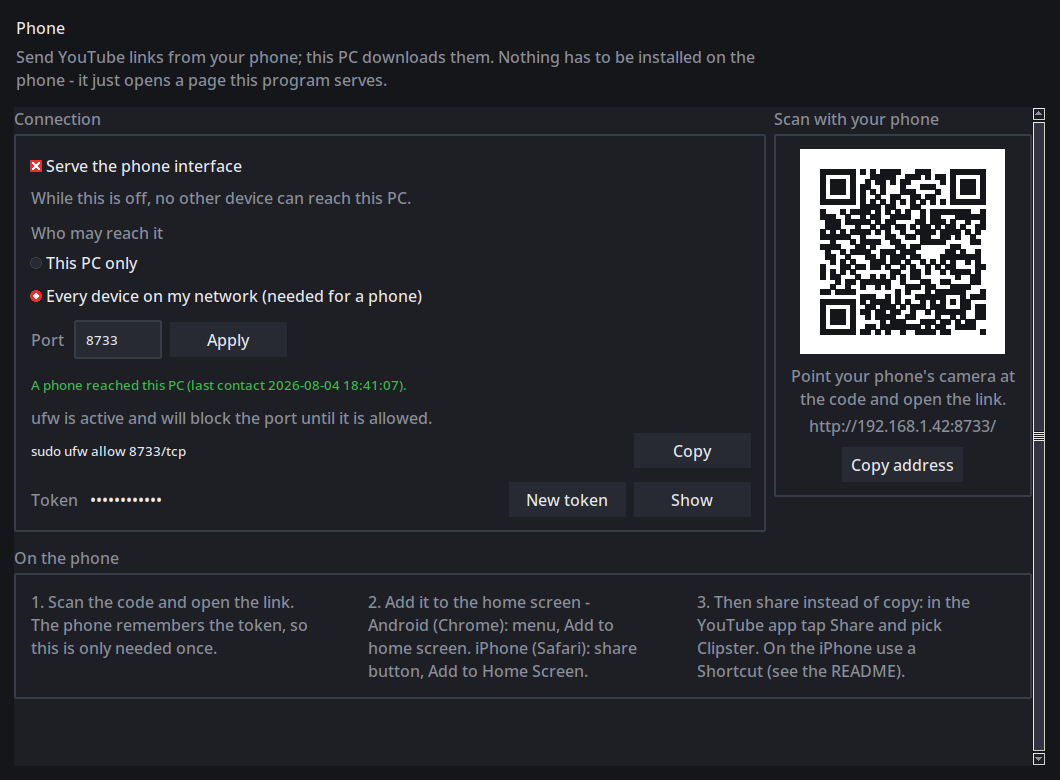
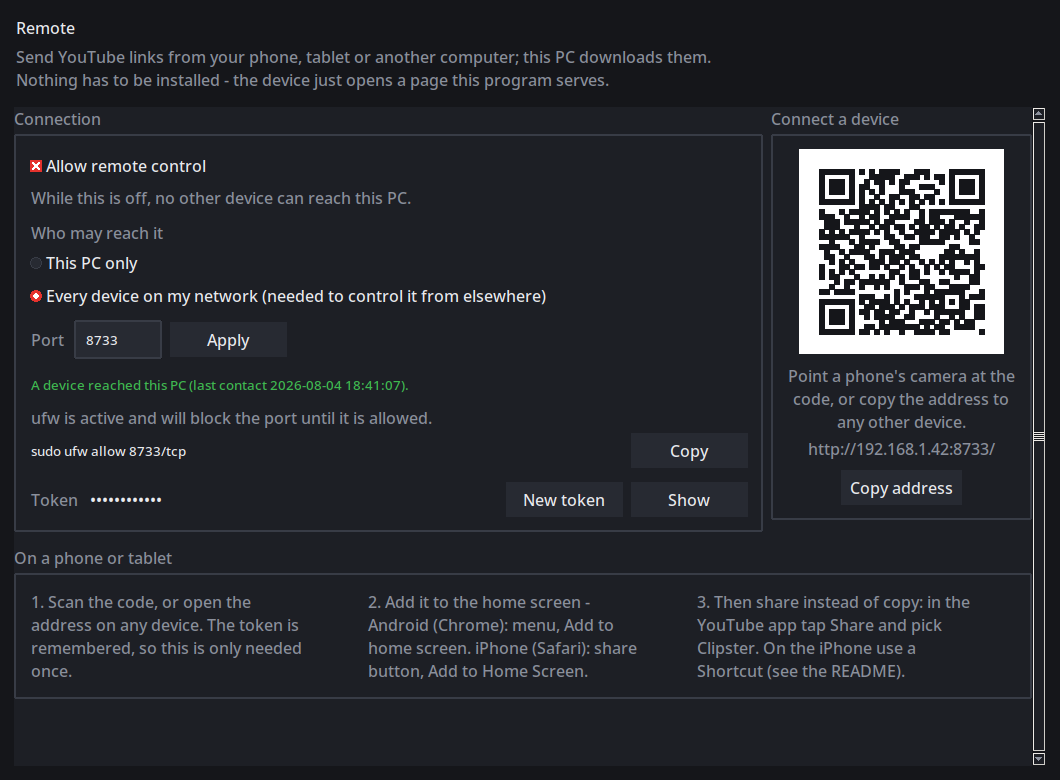
Rename the phone tab to Remote and generalise its wording

diff --git a/clipster/webserver.py b/clipster/webserver.py
@@ -302,10 +302,10 @@ class RemoteServer:
         :return: ``True`` when the server is listening.
         """
         if not self._token:
-            log.error("The phone interface needs a token and was not started.")
+            log.error("Remote control needs a token and was not started.")
             return False
         if not valid_port(self._port):
-            log.error("The phone interface port %r is not between 0 and 65535 - "
+            log.error("The remote control port %r is not between 0 and 65535 - "
                       "check \"remote_port\" in the configuration.", self._port)
             return False
         handler = _make_handler(self._api, self._token, self._static)
@@ -314,7 +314,7 @@ class RemoteServer:
         except (OSError, OverflowError, ValueError) as exc:
             # OverflowError and ValueError are not OSError, and an uncaught one
             # here would end the program instead of only the phone interface.
-            log.error("The phone interface cannot listen on %s:%s (%s).", self._bind, self._port, exc)
+            log.error("Remote control cannot listen on %s:%s (%s).", self._bind, self._port, exc)
             self._server = None
             return False
         self._server.daemon_threads = True
@@ -324,7 +324,7 @@ class RemoteServer:
             daemon=True,
         )
         self._thread.start()
-        log.info("The phone interface is listening on http://%s:%s/", self._bind, self.port)
+        log.info("Remote control is listening on http://%s:%s/", self._bind, self.port)
         return True
 
     def stop(self) -> None:
@@ -336,7 +336,7 @@ class RemoteServer:
                 server.shutdown()
                 server.server_close()
             except Exception:  # pragma: no cover - shutting down must never raise
-                log.debug("The phone interface did not shut down cleanly", exc_info=True)
+                log.debug("Remote control did not shut down cleanly", exc_info=True)
         thread = self._thread
         self._thread = None
         if thread is not None:
@@ -442,7 +442,7 @@ def _make_handler(api: Any, token: str, static: Dict[str, Path]) -> type:
             """Answer a request that did not carry the token."""
             # The path matters: a browser fetches some things without cookies,
             # and without it in the log that is very hard to work out.
-            log.warning("The phone interface refused %s %s from %s.",
+            log.warning("Remote control refused %s %s from %s.",
                         self.command, urlparse(self.path).path, self.address_string())
             self._send_json(HTTPStatus.UNAUTHORIZED, {"error": "unauthorised"})
 

diff --git a/tests/test_phone_page.py b/tests/test_phone_page.py
@@ -404,3 +404,59 @@ def test_leaving_the_page_stops_its_polling(gui) -> None:
 @pytest.mark.gui
 def test_the_menu_label_is_translated(gui, messages) -> None:
     assert gui.view._menu_buttons["phone"].cget("text") == messages["page_phone"]
+
+
+# ----------------------------------------------------------------------
+# Naming: it is a remote control, not a phone feature
+# ----------------------------------------------------------------------
+#: Strings that describe the capability, so they must not narrow it to phones.
+_DEVICE_NEUTRAL_KEYS = (
+    "page_phone",
+    "phone_enable",
+    "phone_enable_hint",
+    "phone_reach",
+    "phone_reach_local",
+    "phone_reach_network",
+    "phone_status_off",
+    "phone_status_waiting",
+    "phone_status_contact",
+    "phone_token_new_warning",
+)
+
+#: Words that would wrongly restrict those strings to a phone.
+_PHONE_WORDS = ("phone", "handy", "iphone", "android", "tablet")
+
+
+@pytest.mark.parametrize("key", _DEVICE_NEUTRAL_KEYS)
+@pytest.mark.parametrize("language", ["en", "de"])
+def test_the_capability_is_not_described_as_phone_only(key: str, language: str) -> None:
+    """A tablet or a second computer can steer this just as well."""
+    from clipster import i18n
+
+    text = i18n.load(language)[key].lower()
+    for word in _PHONE_WORDS:
+        assert word not in text, "{0}/{1} says {2!r}".format(language, key, word)
+
+
+@pytest.mark.parametrize("language", ["en", "de"])
+def test_the_steps_that_really_are_phone_specific_stay_so(language: str) -> None:
+    """Generalising these away would make them useless.
+
+    Scanning a code, the home screen and the share sheet exist on phones and
+    tablets, and the wording has to keep naming the platforms.
+    """
+    from clipster import i18n
+
+    messages = i18n.load(language)
+    install = messages["phone_step_install"].lower()
+    assert "android" in install and "iphone" in install
+    assert "home" in install or "start" in install
+
+
+@pytest.mark.parametrize("language", ["en", "de"])
+def test_the_tab_is_not_called_phone_any_more(language: str) -> None:
+    from clipster import i18n
+
+    label = i18n.load(language)["page_phone"]
+    assert label
+    assert label.lower() not in ("phone", "handy")

diff --git a/clipster/app.py b/clipster/app.py
@@ -305,7 +305,7 @@ class ClipsterApp:
             # Without a secret anybody on the network could start downloads.
             self.config.remote_token = new_token()
             self.config.save()
-            log.info("A new token for the phone interface was generated.")
+            log.info("A new token for remote control was generated.")
         server = RemoteServer(
             RemoteApi(self),
             token=self.config.remote_token,
@@ -317,7 +317,7 @@ class ClipsterApp:
         self._remote = server
         # The complete address including the token: the token only lives in
         # config.json, so without this line nobody can work out what to type.
-        log.info("Open this on your phone: %s", self.remote_url())
+        log.info("Open this on your phone, tablet or other computer: %s", self.remote_url())
         if self.config.remote_bind in LOOPBACK_ADDRESSES:
             log.info('Only this machine can reach it - set "remote_bind" to '
                      '"0.0.0.0" in %s to let a phone in.', self.config.path)
@@ -329,7 +329,7 @@ class ClipsterApp:
             return
         self._remote.stop()
         self._remote = None
-        log.info("The phone interface was stopped.")
+        log.info("Remote control was stopped.")
 
     # ------------------------------------------------------------------
     # Streaming, operated from the phone
@@ -524,7 +524,7 @@ class ClipsterApp:
 
         self.config.remote_token = new_token()
         self.config.save()
-        log.info("A new token for the phone interface was generated.")
+        log.info("A new token for remote control was generated.")
         was_running = self._remote is not None
         self.stop_remote()
         if was_running or self.config.remote_enabled:

diff --git a/README.md b/README.md
@@ -27,7 +27,7 @@ edition (`windows/*.bat`) have been replaced by the `clipster/` package.
   the installer reads that table, works out what is missing, installs it and starts the program
 - **Self-updating** – `yt-dlp` is kept up to date automatically
 - **Phone interface** – send links from your Android phone or iPhone, the PC downloads them, and
-  **operate Streaming** from the phone; no app to install, see [Your phone](#your-phone-android-and-iphone)
+  **operate Streaming** from there; no app to install, see [Remote control](#remote-control-phone-tablet-another-pc)
 - **Multi-language** – English and German (`clipster/locales/*.json`)
 - **Single instance** – a second start is refused with a clear message
 - **Desktop integration** – optional desktop shortcut and login autostart
@@ -46,7 +46,7 @@ Anonymized captures of the real Tk UI (fixture data only):
 
 ![Terms of use](docs/images/terms.png)
 
-![Phone — the whole setup on one page](docs/images/phone-page.png)
+![Remote — the whole setup on one page](docs/images/phone-page.png)
 
 The phone interface itself, served by the running program to your Android phone or iPhone —
 downloads and Streaming:
@@ -352,9 +352,9 @@ For a **portable setup** copy `config.example.json` to `config.json` **next to
 | `cookies_file` | `""` | Path to a Netscape cookies.txt for yt-dlp |
 | `ask_desktop_shortcut` | `true` | Ask once whether a desktop shortcut should be created |
 | `autostart` | `false` | Start automatically at login |
-| `remote_enabled` | `false` | Serve the phone interface (see [Your phone](#your-phone-android-and-iphone)) |
+| `remote_enabled` | `false` | Allow remote control (see [Remote control](#remote-control-phone-tablet-another-pc)) |
 | `remote_bind` | `"127.0.0.1"` | `0.0.0.0` lets other devices in; the default keeps it on this PC |
-| `remote_port` | `8733` | TCP port of the phone interface; `0` … `65535`, where `0` picks a free one. Anything outside that range is refused with a message in the log instead of stopping the program |
+| `remote_port` | `8733` | TCP port of the remote interface; `0` … `65535`, where `0` picks a free one. Anything outside that range is refused with a message in the log instead of stopping the program |
 | `remote_token` | `""` | Shared secret; generated on first start and written back here. Any characters are allowed — it is percent-encoded into the address |
 | `update_check_hours` | `24` | Hours between two yt-dlp update checks (`0` = every start) |
 | `log_level` | `"INFO"` | `DEBUG`, `INFO`, `WARNING` or `ERROR` |
@@ -426,13 +426,14 @@ python3 run.py --autostart off       # disable
 
 ---
 
-## Your phone (Android and iPhone)
+## Remote control (phone, tablet, another PC)
 
-You can operate YouTube Clipster from your phone: the phone sends a link, **the PC downloads it**,
-and the phone shows the list and plays the result. There is nothing to install — the running program
-serves a small web page, so the same thing works on Android and on the iPhone.
+You can operate YouTube Clipster from another device: it sends a link, **this PC downloads it**, and
+the device shows the list, plays the result and steers Streaming. There is nothing to install — the
+running program serves a small web page, so it works on Android, on the iPhone, on a tablet and in the
+browser of a second computer.
 
-![The phone interface](docs/images/phone.png)
+![The interface on a phone](docs/images/phone.png)
 
 Why it works this way: Android has forbidden reading the clipboard in the background since Android 10,
 so the "copy a link and it downloads" trick cannot exist there. And an app that downloads YouTube
@@ -441,18 +442,18 @@ problem — and needs no store at all.
 
 ### In the program (recommended)
 
-Open the view window and pick **Phone**. Everything is on that one page:
+Open the view window and pick **Remote**. Everything is on that one page:
 
-![The Phone page](docs/images/phone-page.png)
+![The Remote page](docs/images/phone-page.png)
 
-- a switch that starts serving, and a choice of **who** may reach it — *This PC only* or *Every device
+- a switch that allows remote control, and a choice of **who** may reach it — *This PC only* or *Every device
   on my network*
 - the port, and whether it could actually be bound
 - the **QR code** to scan, plus the address to copy
 - the firewall command for your system, with a Copy button — shown only when it is actually needed
-- the token, hidden by default, with *New token* to disconnect every paired phone
-- **live status**: it says when a phone last reached this PC, so you can see it working
-- the two steps left on the phone itself
+- the token, hidden by default, with *New token* to disconnect every paired device
+- **live status**: it says when a device last reached this PC, so you can see it working
+- the two steps left on a phone or tablet
 
 That is the whole setup; you do not have to touch a configuration file.
 
@@ -473,7 +474,7 @@ Everything below describes the same thing done by hand — useful to understand 
 
 ### 1. Switch it on
 
-The phone interface is **off** by default, and even when switched on it stays on the PC until you
+Remote control is **off** by default, and even when switched on it stays on the PC until you
 allow other devices in. Both keys in `config.json` have to change:
 
 ```json
@@ -486,7 +487,7 @@ allow other devices in. Both keys in `config.json` have to change:
 | Value | Who can reach it |
 |-------|------------------|
 | `"remote_bind": "127.0.0.1"` | only this PC (the default) |
-| `"remote_bind": "0.0.0.0"` | every device on the networks this PC is on — needed for your phone |
+| `"remote_bind": "0.0.0.0"` | every device on the networks this PC is on — needed to reach it from elsewhere |
 
 Then restart YouTube Clipster. On the first start a token is generated and written back into
 `config.json`; you do not have to invent one.
@@ -503,8 +504,8 @@ sudo ufw allow 8733/tcp     # only if ufw is enabled
 The startup log prints the complete address, token included:
 
 ```
-[INFO]  The phone interface is listening on http://0.0.0.0:8733/
-[INFO]  Open this on your phone: http://192.168.1.42:8733/?token=ugRFRjQpigmZNQHUlay9CWUYme1
+[INFO]  Remote control is listening on http://0.0.0.0:8733/
+[INFO]  Open this on your phone, tablet or other computer: http://192.168.1.42:8733/?token=ugRF…
 ```
 
 The log file is next to the configuration
@@ -553,7 +554,7 @@ prints the address.
 Use Chrome on Android and Safari on the iPhone. The address has to be opened only once: afterwards the
 phone keeps the token in a cookie and the address bar shows just `http://192.168.1.42:8733/`.
 
-The phone has the same two jobs the PC has, on two tabs:
+The device has the same two jobs the PC has, on two tabs:
 
 **Downloads** — paste a link, choose MP3 or MP4 and tap **Download**. The list below shows every
 download with its length, size, date and status; ▶ plays it, ⤓ saves it to the phone, ✕ deletes the
@@ -619,12 +620,12 @@ send.
   read every file you have already downloaded. Treat it like a password.
 - **Do not forward the port in your router.** To reach the PC from outside your home, use a VPN such
   as [Tailscale](https://tailscale.com/) or WireGuard, which does not expose anything to the internet.
-- **Revoking a phone**: press *New token* on the **Phone** page — every phone paired so far is
-  disconnected and has to scan again. By hand: empty `"remote_token"` in `config.json` and restart.
-- **Switching it off entirely**: untick *Serve the phone interface* on the **Phone** page — it takes
+- **Revoking a device**: press *New token* on the **Remote** page — every device paired so far is
+  disconnected and has to connect again. By hand: empty `"remote_token"` in `config.json` and restart.
+- **Switching it off entirely**: untick *Allow remote control* on the **Remote** page — it takes
   effect at once and releases the port. By hand: `"remote_enabled": false` and restart.
-- The PC has to be **running and awake** — it does all the work. The phone is only the remote control.
-- The phone interface is currently **English only**, unlike the desktop windows.
+- The PC has to be **running and awake** — it does all the work. The device only steers.
+- The remote interface is currently **English only**, unlike the desktop windows.
 
 ### When something does not work
 
@@ -632,11 +633,11 @@ send.
 |---------|---------------|
 | The page does not load at all | Phone on a different Wi-Fi (or a guest network), `remote_bind` still `127.0.0.1`, or the firewall is blocking the port. `--phone-setup` checks all three |
 | "This device is not registered any more" | The cookie is gone. Open the full address with `?token=…` from step 2 again |
-| The address from the log is `0.0.0.0` | That is the bind address, not a destination. Use the "Open this on your phone" line below it, or run `python3 tools/phone_link.py` |
+| The address from the log is `0.0.0.0` | That is the bind address, not a destination. Use the "Open this on your…" line below it, or run `python3 tools/phone_link.py` |
 | Nothing happens after *Download* | Look at the PC: the navigation window shows the same download, and the log gives the reason |
-| The port is already in use | Set another `"remote_port"` and restart; the log says so plainly. The **Phone** page shows it as "Could not listen on this port" |
+| The port is already in use | Set another `"remote_port"` and restart; the log says so plainly. The **Remote** page shows it as "Could not listen on this port" |
 | The interface never starts and the log names a port range | `"remote_port"` is outside `0` … `65535`. The rest of the program keeps running; fix the value and restart |
-| The phone is refused although the token looks right | Only when `"remote_token"` was edited by hand: check for stray whitespace. Special characters themselves are fine |
+| A device is refused although the token looks right | Only when `"remote_token"` was edited by hand: check for stray whitespace. Special characters themselves are fine |
 | No *Install* entry on Android | Chrome needs the app manifest, which is only served once the token was accepted. Open the address including `?token=…` and reload the page once |
 
 ---
@@ -712,8 +713,8 @@ youtube-clipster/
     ├── downloader.py        # yt-dlp integration (metadata, download, progress)
     ├── history.py           # the persistent download list (history.json)
     ├── updater.py           # checks GitHub, fetches, restarts
-    ├── webserver.py         # the phone interface: HTTP, token, Range requests
-    ├── webapi.py            # what the phone may ask for, as plain data
+    ├── webserver.py         # the remote interface: HTTP, token, Range requests
+    ├── webapi.py            # what a remote device may ask for, as plain data
     ├── phonesetup.py        # the guided --phone-setup wizard
     ├── phone_page.py        # the Phone page of the view window
     ├── qrview.py            # draws a QR code onto a Tk canvas

diff --git a/docs/USER_GUIDE.md b/docs/USER_GUIDE.md
@@ -48,11 +48,11 @@ Python 3.8+, tkinter, yt-dlp, ffmpeg, and a clipboard helper on Linux (`xclip` o
 You can send links from an Android phone or an iPhone; the PC downloads them. Nothing to install - the
 running program serves a small web page.
 
-Open the view window and pick **Phone**. Switch on *Serve the phone interface*, choose *Every device on
+Open the view window and pick **Remote**. Switch on *Serve the phone interface*, choose *Every device on
 my network*, and scan the QR code with the phone. The page says when a phone last reached the PC, so
 you can see it working; it also shows the firewall command if one is needed.
 
-![The Phone page](images/phone-page.png)
+![The Remote page](images/phone-page.png)
 
 The phone has two tabs: **Downloads** for links and the download list, and **Streaming** as a remote
 control for the Streaming page - queue, transport, likes and *Find similar*. The sound stays on the PC;
@@ -62,7 +62,7 @@ the phone steers. Streaming needs its terms accepted once on the PC before the p
 
 Without a window there is `python3 run.py --phone-setup`, which walks through the same steps in the
 terminal. The full walkthrough, including the Android share sheet and the iPhone shortcut, is in
-[README - Your phone](../README.md#your-phone-android-and-iphone).
+[README - Remote control](../README.md#remote-control-phone-tablet-another-pc).
 
 ![Phone interface](images/phone.png)
 

diff --git a/docs/TECHNICAL.md b/docs/TECHNICAL.md
@@ -110,7 +110,7 @@ while `remote_status` and the history are read directly, because the phone polls
 gives the phone a handle that survives a restart without adding a field to `history.json`.
 `webserver.phone_url` builds the address the phone needs and is shared with
 `tools/phone_link.py`, so the program and the QR code can never disagree. See
-[README - Your phone](../README.md#your-phone-android-and-iphone).
+[README - Remote control](../README.md#remote-control-phone-tablet-another-pc).
 
 Streaming is operated remotely through `discover_remote_state` / `discover_remote_command`, which marshal
 onto the Tk thread and drive the existing `DiscoverPage` - the PC keeps playing, the phone only steers.
@@ -163,7 +163,7 @@ the process and take the downloader with it.
 | `updater.py` | GitHub update check / apply / restart |
 | `webserver.py` | Phone interface transport: HTTP, token, Range requests, static table |
 | `webapi.py` | Phone interface endpoints as plain data, no HTTP |
-| `phone_page.py` | The Phone page: switch, QR code, live status, firewall hint |
+| `phone_page.py` | The Remote page (file name unchanged): switch, QR code, live status, firewall hint |
 | `phonesetup.py` | The same setup as a console wizard (`--phone-setup`) |
 | `qrview.py` | Draws a QR code onto a Tk canvas (no Pillow needed) |
 | `scroller.py` | Scrollable container shared by the table and the Phone page |
